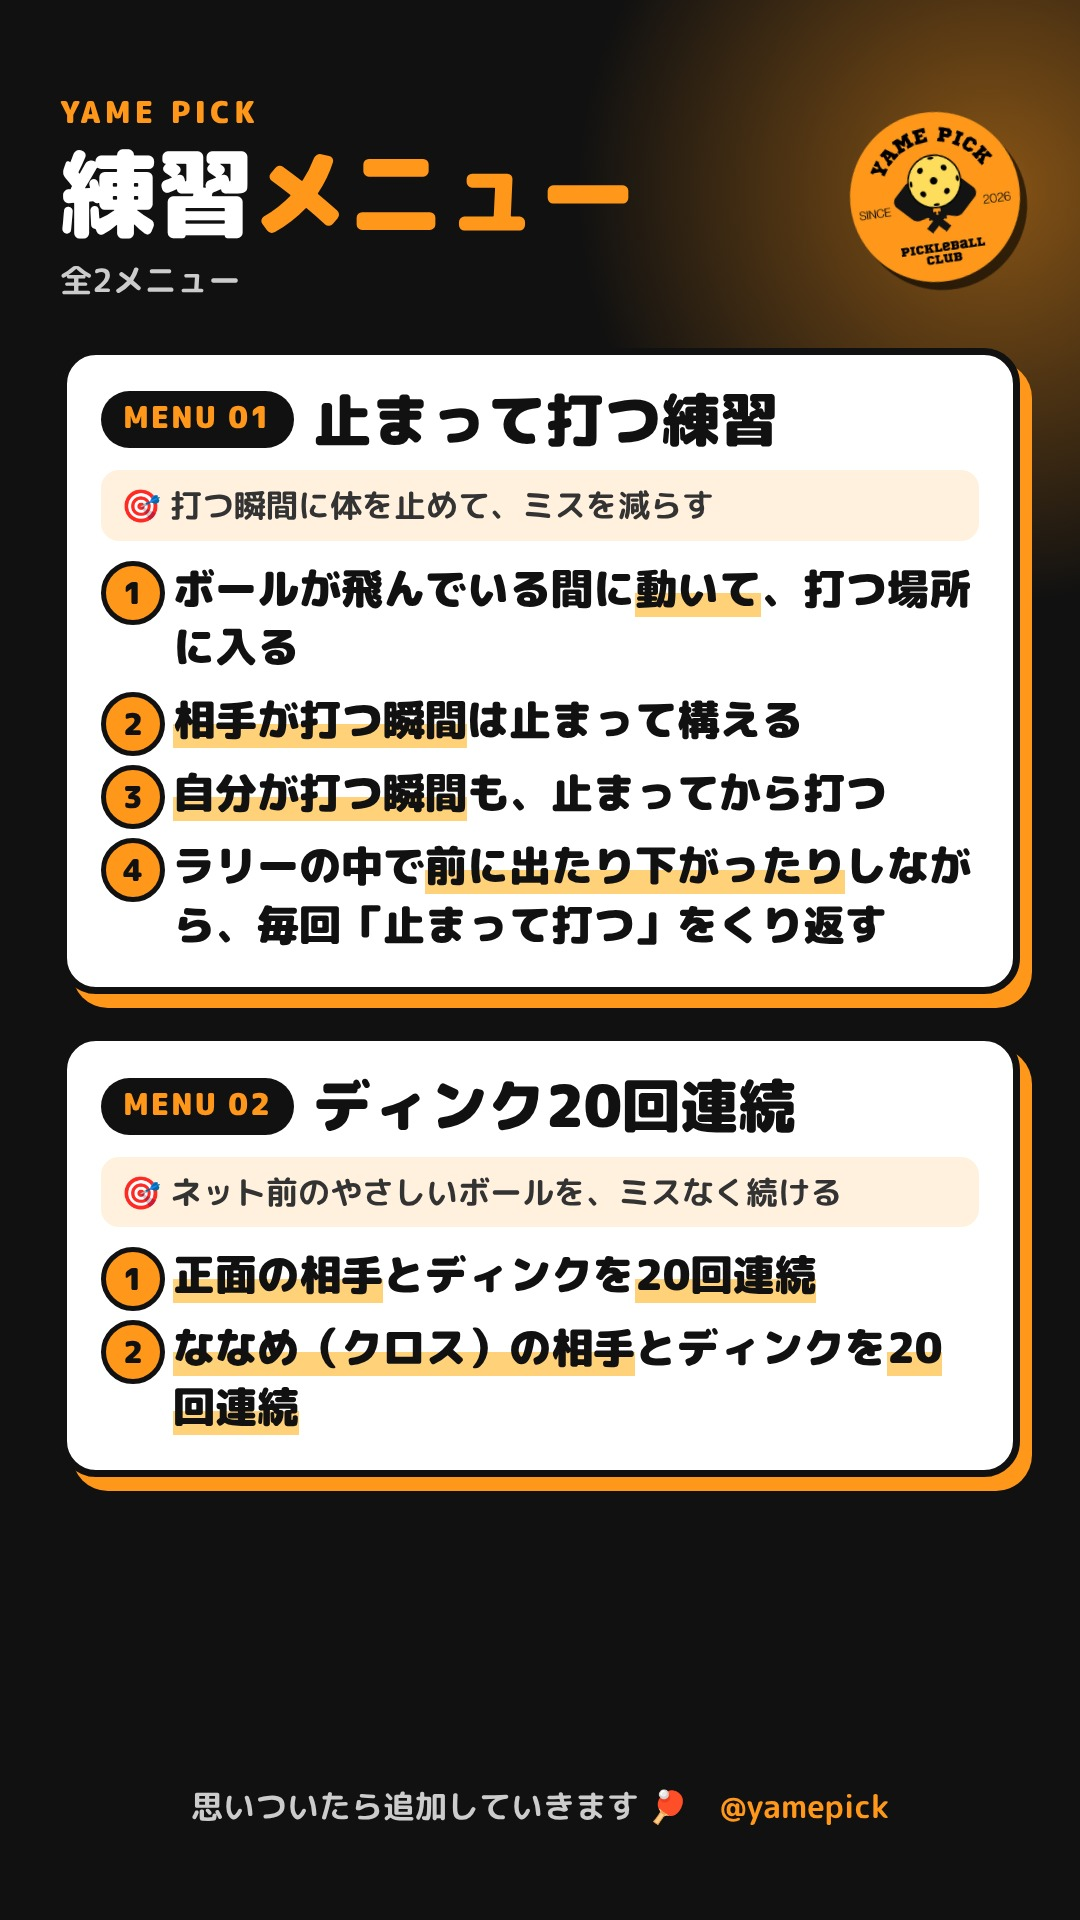
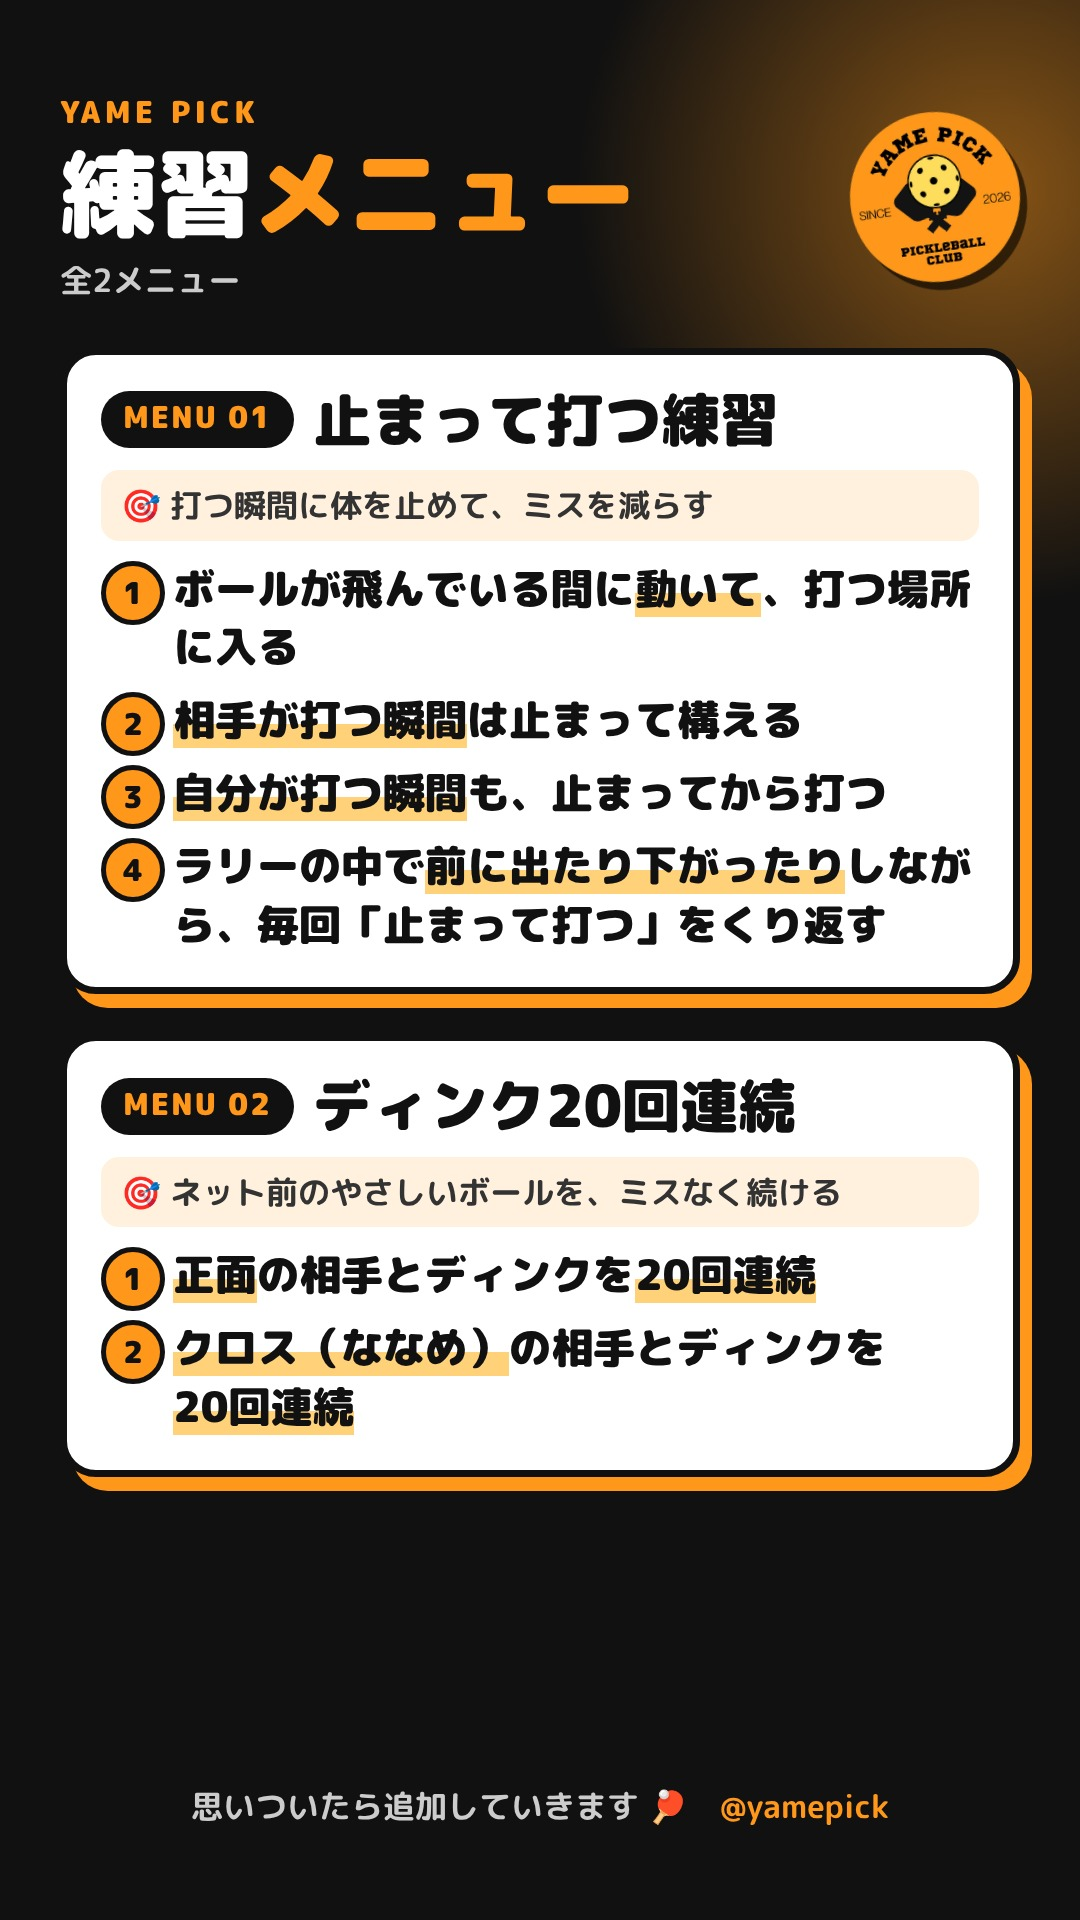
Practice menu: tidy MENU 02 wording, keep highlighted phrases unbroken
Claude-Session: https://claude.ai/code/session_017YanoV4JpDndqi3e2y7cU7

Changed region(s): [[0.1528, 0.6562, 0.4278, 0.75], [0.4583, 0.6875, 0.5806, 0.7188], [0.825, 0.6875, 0.8861, 0.7188]]

diff --git a/practice_menu/build_menu.py b/practice_menu/build_menu.py
@@ -40,7 +40,7 @@ def page_html(cards, page, pages):
     li{{counter-increment:p;position:relative;padding-left:72px;font-size:42px;font-weight:900;line-height:1.4}}
     li::before{{content:counter(p);position:absolute;left:0;top:2px;width:54px;height:54px;border-radius:50%;background:#FE971A;
                border:5px solid #111;display:grid;place-items:center;font-size:30px;line-height:1}}
-    li em{{font-style:normal;background:linear-gradient(transparent 58%,#FFD27A 58%)}}
+    li em{{font-style:normal;white-space:nowrap;background:linear-gradient(transparent 58%,#FFD27A 58%)}}
     .foot{{color:#ccc;text-align:center;font-size:32px;position:absolute;left:0;right:0;bottom:90px}} .foot b{{color:#FE971A}}
     </style></head><body><div class=g></div>
     <div class=head><div><div class=k>YAME PICK</div><h1>練習<span>メニュー</span></h1><div class=sub>全{len(MENUS)}メニュー{pg_label}</div></div>
